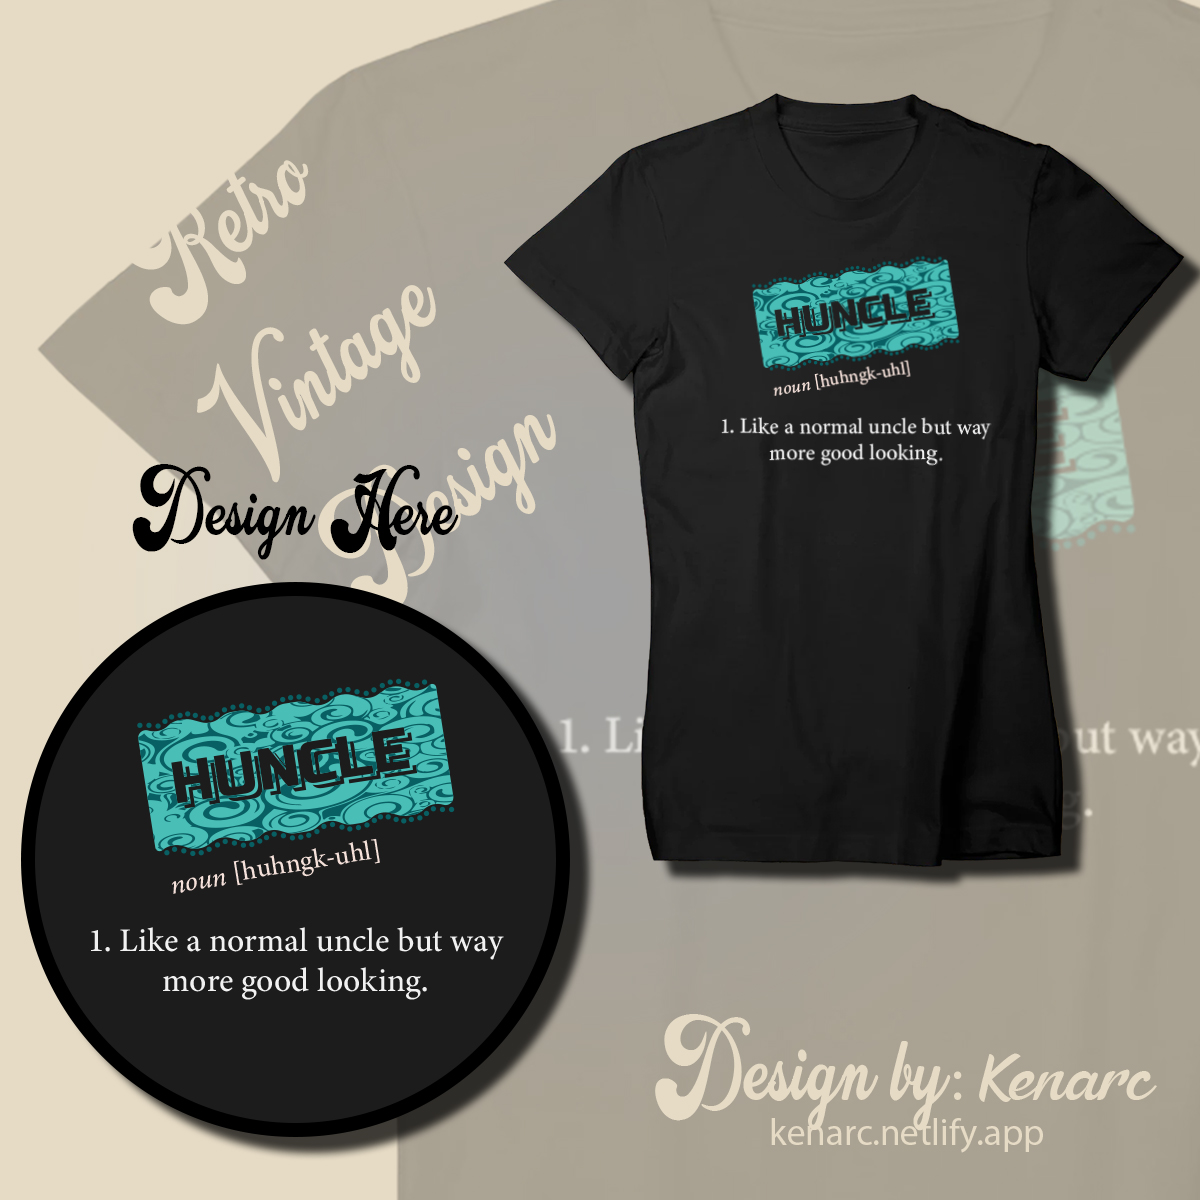
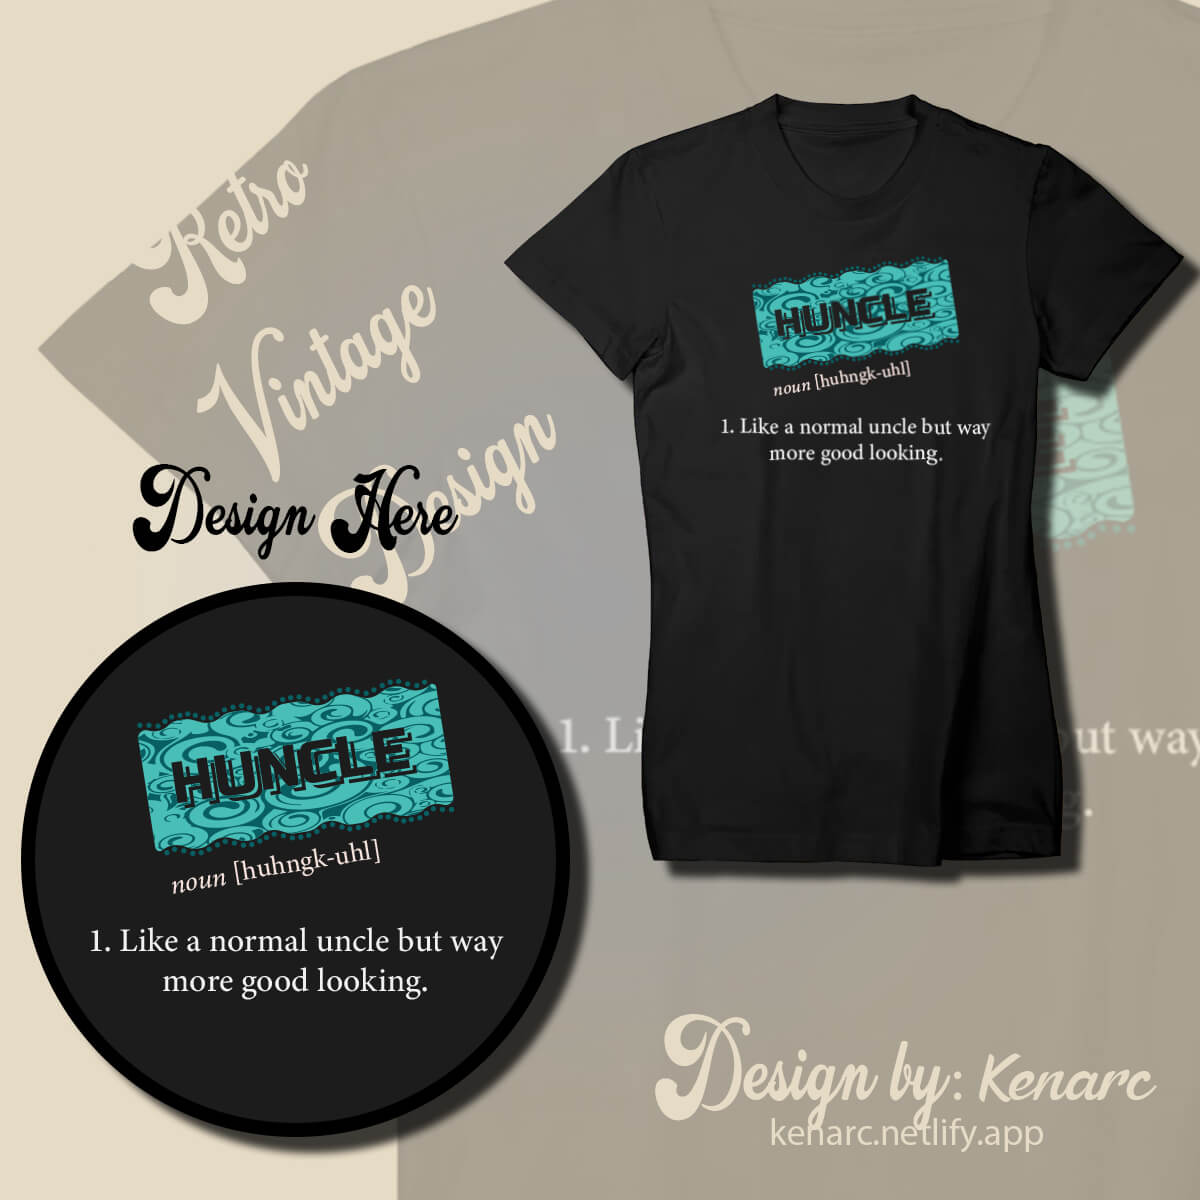
update
re-compress images

diff --git a/index.html b/index.html
@@ -141,49 +141,49 @@
                 </div>
                 <div class="card">
                     <div class="box">
-                        <a href="image/Logo Design/Mir 4/Logo Class.jpg" data-lightbox="mygallery"><img src="image/Logo Design/Mir 4/Logo Class.jpg" alt=""></a>
+                        <a href="image/Logo Design/Logo Class.jpg" data-lightbox="mygallery"><img src="image/Logo Design/Logo Class.jpg" alt=""></a>
                         <div class="text">Encanto New Main Logo</div>
                         <p>Our 3rd Clan Encanto was joined clan to SupremeDiablo1, SD2, SD3 & SD4 so theres no Encanto anymore it change name to SD4 but for our profile were still Encanto as a group we change our profile to this 7 logo I made for our memmories and sertified that we are still part to be Encanto even thou its SD4 now with different members we expanded alot for joined clan</p>
                     </div>
                 </div>
                 <div class="card">
                     <div class="box">
-                        <a href="image/Logo Design/Mir 4/Logo Class - Arbalist.jpg" data-lightbox="mygallery"><img src="image/Logo Design/Mir 4/Logo Class - Arbalist.jpg" alt=""></a>
+                        <a href="image/Logo Design/Logo Class - Arbalist.jpg" data-lightbox="mygallery"><img src="image/Logo Design/Logo Class - Arbalist.jpg" alt=""></a>
                         <div class="text">Encanto Class Logo - Arbalist</div>
                         <p>OOur 3rd Clan Encanto was joined clan to SupremeDiablo1, SD2, SD3 & SD4 so theres no Encanto anymore it change name to SD4 but for our profile were still Encanto as a group we change our profile to this 7 logo I made for our memmories and sertified that we are still part to be Encanto even thou its SD4 now with different members we expanded alot for joined clan</p>
                     </div>
                 </div>
                 <div class="card">
                     <div class="box">
-                        <a href="image/Logo Design/Mir 4/Logo Class - Darkist.jpg" data-lightbox="mygallery"><img src="image/Logo Design/Mir 4/Logo Class - Darkist.jpg" alt=""></a>
+                        <a href="image/Logo Design/Logo Class - Darkist.jpg" data-lightbox="mygallery"><img src="image/Logo Design/Logo Class - Darkist.jpg" alt=""></a>
                         <div class="text">Encanto Class Logo - Darkist</div>
                         <p>Our 3rd Clan Encanto was joined clan to SupremeDiablo1, SD2, SD3 & SD4 so theres no Encanto anymore it change name to SD4 but for our profile were still Encanto as a group we change our profile to this 7 logo I made for our memmories and sertified that we are still part to be Encanto even thou its SD4 now with different members we expanded alot for joined clan</p>
                     </div>
                 </div>
                 <div class="card">
                     <div class="box">
-                        <a href="image/Logo Design/Mir 4/Logo Class - Lancer.jpg" data-lightbox="mygallery"><img src="image/Logo Design/Mir 4/Logo Class - Lancer.jpg" alt=""></a>
+                        <a href="image/Logo Design/Logo Class - Lancer.jpg" data-lightbox="mygallery"><img src="image/Logo Design/Logo Class - Lancer.jpg" alt=""></a>
                         <div class="text">Encanto Class Logo - Lancer</div>
                         <p>Our 3rd Clan Encanto was joined clan to SupremeDiablo1, SD2, SD3 & SD4 so theres no Encanto anymore it change name to SD4 but for our profile were still Encanto as a group we change our profile to this 7 logo I made for our memmories and sertified that we are still part to be Encanto even thou its SD4 now with different members we expanded alot for joined clan</p>
                     </div>
                 </div>
                 <div class="card">
                     <div class="box">
-                        <a href="image/Logo Design/Mir 4/Logo Class - Sorcerer.jpg" data-lightbox="mygallery"><img src="image/Logo Design/Mir 4/Logo Class - Sorcerer.jpg" alt=""></a>
+                        <a href="image/Logo Design/Logo Class - Sorcerer.jpg" data-lightbox="mygallery"><img src="image/Logo Design/Logo Class - Sorcerer.jpg" alt=""></a>
                         <div class="text">Encanto Class Logo - Sorcerer</div>
                         <p>Our 3rd Clan Encanto was joined clan to SupremeDiablo1, SD2, SD3 & SD4 so theres no Encanto anymore it change name to SD4 but for our profile were still Encanto as a group we change our profile to this 7 logo I made for our memmories and sertified that we are still part to be Encanto even thou its SD4 now with different members we expanded alot for joined clan</p>
                     </div>
                 </div>
                 <div class="card">
                     <div class="box">
-                        <a href="image/Logo Design/Mir 4/Logo Class - Taoist.jpg" data-lightbox="mygallery"><img src="image/Logo Design/Mir 4/Logo Class - Taoist.jpg" alt=""></a>
+                        <a href="image/Logo Design/Logo Class - Taoist.jpg" data-lightbox="mygallery"><img src="image/Logo Design/Logo Class - Taoist.jpg" alt=""></a>
                         <div class="text">Encanto Class Logo - Taoist</div>
                         <p>Our 3rd Clan Encanto was joined clan to SupremeDiablo1, SD2, SD3 & SD4 so theres no Encanto anymore it change name to SD4 but for our profile were still Encanto as a group we change our profile to this 7 logo I made for our memmories and sertified that we are still part to be Encanto even thou its SD4 now with different members we expanded alot for joined clan</p>
                     </div>
                 </div>
                 <div class="card">
                     <div class="box">
-                        <a href="image/Logo Design/Mir 4/Logo Class - Warrior.jpg" data-lightbox="mygallery"><img src="image/Logo Design/Mir 4/Logo Class - Warrior.jpg" alt=""></a>
+                        <a href="image/Logo Design/Logo Class - Warrior.jpg" data-lightbox="mygallery"><img src="image/Logo Design/Logo Class - Warrior.jpg" alt=""></a>
                         <div class="text">Encanto Class Logo - Warrior</div>
                         <p>Our 3rd Clan Encanto was joined clan to SupremeDiablo1, SD2, SD3 & SD4 so theres no Encanto anymore it change name to SD4 but for our profile were still Encanto as a group we change our profile to this 7 logo I made for our memmories and sertified that we are still part to be Encanto even thou its SD4 now with different members we expanded alot for joined clan</p>
                     </div>
@@ -199,83 +199,6 @@
             <div class="carousel owl-carousel">
                 <div class="card">
                     <div class="box">
-                        <a href="image/TeePublic Design/Design 1 with watermark.png" data-lightbox="mygallery"><img src="image/TeePublic Design/Design 1 with watermark.png" alt=""></a>
-                        <div class="text">Kenarc - I Love you!</div>
-                        <p>Design 1 TeePublic: Kenarc, Follow me on TeePublic, Thank you for the support!</p>
-                    </div>
-                </div>
-                <div class="card">
-                    <div class="box">
-                        <a href="image/TeePublic Design/Design 2 with Watermark.png" data-lightbox="mygallery"><img src="image/TeePublic Design/Design 2 with Watermark.png" alt=""></a>
-                        <div class="text">Kenarc - Forever Yours!</div>
-                        <p>Design 2 TeePublic: Kenarc, Follow me on TeePublic, Thank you for the support!</p>
-                    </div>
-                </div>
-                <div class="card">
-                    <div class="box">
-                        <a href="image/TeePublic Design/Design 3 with Watermark.png" data-lightbox="mygallery"><img src="image/TeePublic Design/Design 3 with Watermark.png" alt=""></a>
-                        <div class="text">Kenarc - Happy 2023 Valentines Day!</div>
-                        <p>Design 3 TeePublic: Kenarc, Follow me on TeePublic, Thank you for the support!</p>
-                    </div>
-                </div>
-                <div class="card">
-                    <div class="box">
-                        <a href="image/TeePublic Design/Design 4 with Watermark.png" data-lightbox="mygallery"><img src="image/TeePublic Design/Design 4 with Watermark.png" alt=""></a>
-                        <div class="text">Kenarc - Forever Be My Always</div>
-                        <p>Design 4 TeePublic: Kenarc, Follow me on TeePublic, Thank you for the support!</p>
-                    </div>
-                </div>
-                <div class="card">
-                    <div class="box">
-                        <a href="image/TeePublic Design/Design 5 with Watermark.png" data-lightbox="mygallery"><img src="image/TeePublic Design/Design 5 with Watermark.png" alt=""></a>
-                        <div class="text">Kenarc - I will Always Love you!</div>
-                        <p>Design 5 TeePublic: Kenarc, Follow me on TeePublic, Thank you for the support!</p>
-                    </div>
-                </div>
-                <div class="card">
-                    <div class="box">
-                        <a href="image/TeePublic Design/Design 6 with Watermark.png" data-lightbox="mygallery"><img src="image/TeePublic Design/Design 6 with Watermark.png" alt=""></a>
-                        <div class="text">Kenarc - Forever Yours!</div>
-                        <p>Design 6 TeePublic: Kenarc, Follow me on TeePublic, Thank you for the support!</p>
-                    </div>
-                </div>
-                <div class="card">
-                    <div class="box">
-                        <a href="image/TeePublic Design/Design 7 with Watermark.png" data-lightbox="mygallery"><img src="image/TeePublic Design/Design 7 with Watermark.png" alt=""></a>
-                        <div class="text">Kenarc - I'm Forever Yours!</div>
-                        <p>Design 7 TeePublic: Kenarc, Follow me on TeePublic, Thank you for the support!</p>
-                    </div>
-                </div>
-                <div class="card">
-                    <div class="box">
-                        <a href="image/TeePublic Design/Piano 1 with Watermark.png" data-lightbox="mygallery"><img src="image/TeePublic Design/Piano 1 with Watermark.png" alt=""></a>
-                        <div class="text">Kenarc - Piano D1</div>
-                        <p>Design 8 TeePublic: Kenarc, Follow me on TeePublic, Thank you for the support!</p>
-                    </div>
-                </div>
-                <div class="card">
-                    <div class="box">
-                        <a href="image/TeePublic Design/Design 1.jpg" data-lightbox="mygallery"><img src="image/TeePublic Design/Design 1.jpg" alt=""></a>
-                        <div class="text">Kenarc - US of America 1956 T-Shirt</div>
-                        <p>Design 9 TeePublic: Kenarc, Follow me on TeePublic, Thank you for the support!</p>
-                    </div>
-                </div>
-                <div class="card">
-                    <div class="box">
-                        <a href="image/TeePublic Design/Design 2.jpg" data-lightbox="mygallery"><img src="image/TeePublic Design/Design 2.jpg" alt=""></a>
-                        <div class="text">Kenarc - USA California Mendocino Coast T-Shirt</div>
-                        <p>Design 10 TeePublic: Kenarc, Follow me on TeePublic, Thank you for the support!</p>
-                    </div>
-                </div>
-                <div class="card">
-                    <div class="box">
-                        <a href="image/TeePublic Design/Design 3.jpg" data-lightbox="mygallery"><img src="image/TeePublic Design/Design 3.jpg" alt=""></a>
-                        <div class="text">Kenarc - California Western United State T-Shirt</div>
-                        <p>Design 11 TeePublic: Kenarc, Follow me on TeePublic, Thank you for the support!</p>
-                    </div>
-                </div>
-                <div class="card">
-                    <div class="box">
                         <a href="image/TeePublic Design/Design 4.jpg" data-lightbox="mygallery"><img src="image/TeePublic Design/Design 4.jpg" alt=""></a>
                         <div class="text">Kenarc - Texas T-Shirt</div>
                         <p>Design 12 TeePublic: Kenarc, Follow me on TeePublic, Thank you for the support!</p>
@@ -283,37 +206,9 @@
                 </div>
                 <div class="card">
                     <div class="box">
-                        <a href="image/TeePublic Design/Design 5.jpg" data-lightbox="mygallery"><img src="image/TeePublic Design/Design 5.jpg" alt=""></a>
-                        <div class="text">Kenarc - Alaska T-Shirt</div>
-                        <p>Design 13 TeePublic: Kenarc, Follow me on TeePublic, Thank you for the support!</p>
-                    </div>
-                </div>
-                <div class="card">
-                    <div class="box">
                         <a href="image/TeePublic Design/Design 6.jpg" data-lightbox="mygallery"><img src="image/TeePublic Design/Design 6.jpg" alt=""></a>
                         <div class="text">Kenarc - New York City T-Shirt</div>
                         <p>Design 14 TeePublic: Kenarc, Follow me on TeePublic, Thank you for the support!</p>
-                    </div>
-                </div>
-                <div class="card">
-                    <div class="box">
-                        <a href="image/TeePublic Design/Design 7.jpg" data-lightbox="mygallery"><img src="image/TeePublic Design/Design 7.jpg" alt=""></a>
-                        <div class="text">Kenarc - California US T-Shirt</div>
-                        <p>Design 15 TeePublic: Kenarc, Follow me on TeePublic, Thank you for the support!</p>
-                    </div>
-                </div>
-                <div class="card">
-                    <div class="box">
-                        <a href="image/TeePublic Design/Design 8.jpg" data-lightbox="mygallery"><img src="image/TeePublic Design/Design 8.jpg" alt=""></a>
-                        <div class="text">Kenarc - Wisconsin T-Shirt</div>
-                        <p>Design 16 TeePublic: Kenarc, Follow me on TeePublic, Thank you for the support!</p>
-                    </div>
-                </div>
-                <div class="card">
-                    <div class="box">
-                        <a href="image/TeePublic Design/Design 9.jpg" data-lightbox="mygallery"><img src="image/TeePublic Design/Design 9.jpg" alt=""></a>
-                        <div class="text">Kenarc - aloha Hawaii T-Shirt</div>
-                        <p>Design 16 TeePublic: Kenarc, Follow me on TeePublic, Thank you for the support!</p>
                     </div>
                 </div>
                 <div class="card">
@@ -328,13 +223,6 @@
                         <a href="image/TeePublic Design/Design 11.jpg" data-lightbox="mygallery"><img src="image/TeePublic Design/Design 11.jpg" alt=""></a>
                         <div class="text">Kenarc - Explore The World T-Shirt</div>
                         <p>Design 18 TeePublic: Kenarc, Follow me on TeePublic, Thank you for the support!</p>
-                    </div>
-                </div>
-                <div class="card">
-                    <div class="box">
-                        <a href="image/TeePublic Design/Design 12.jpg" data-lightbox="mygallery"><img src="image/TeePublic Design/Design 12.jpg" alt=""></a>
-                        <div class="text">Kenarc - Making America Great T-Shirt</div>
-                        <p>Design 19 TeePublic: Kenarc, Follow me on TeePublic, Thank you for the support!</p>
                     </div>
                 </div>
                 <div class="card">
@@ -370,78 +258,6 @@
                         <a href="image/TeePublic Design/Design x4.jpg" data-lightbox="mygallery"><img src="image/TeePublic Design/Design x4.jpg" alt=""></a>
                         <div class="text">Kenarc - Funcle 3 T-Shirt</div>
                         <p>Design 24 TeePublic: Kenarc, Follow me on TeePublic, Thank you for the support!</p>
-                    </div>
-                </div>
-                <div class="card">
-                    <div class="box">
-                        <a href="image/TeePublic Design/Design x5.jpg" data-lightbox="mygallery"><img src="image/TeePublic Design/Design x5.jpg" alt=""></a>
-                        <div class="text">Kenarc - Huncle 2 T-Shirt</div>
-                        <p>Design 25 TeePublic: Kenarc, Follow me on TeePublic, Thank you for the support!</p>
-                    </div>
-                </div>
-                <div class="card">
-                    <div class="box">
-                        <a href="image/TeePublic Design//Design x6.jpg" data-lightbox="mygallery"><img src="image/TeePublic Design/Design x6.jpg" alt=""></a>
-                        <div class="text">Kenarc - Huncle 3 T-Shirt</div>
-                        <p>Design 26 TeePublic: Kenarc, Follow me on TeePublic, Thank you for the support!</p>
-                    </div>
-                </div>
-            </div>
-        </div>
-    </section>
-
-    <!-- Tshirt section start -->
-    <section class="shirt" id="shirt">
-        <div class="max-width">
-            <h2 class="title">T-shirt Design</h2>
-            <div class="carousel owl-carousel">
-                <div class="card">
-                    <div class="box">
-                        <a href="image/T-shirt Design/Bakz Jersey.png" data-lightbox="mygallery"><img src="image/T-shirt Design/Bakz Jersey.png" alt=""></a>
-                        <div class="text">VolleyBall</div>
-                        <p>My Older Brother Requested to make there own Uniform Design</p>
-                    </div>
-                </div>
-                <div class="card">
-                        <div class="box">
-                            <a href="image/T-shirt Design/Design 3.png" data-lightbox="mygallery"><img src="image/T-shirt Design/Design 3.png" alt=""></a>
-                            <div class="text">VolleyBall</div>
-                            <p>My Older Brother Requested to make there own Long Sleeve Jersey Uniform Design</p>
-                        </div>
-                    </div>
-                    <div class="card">
-                            <div class="box">
-                                <a href="image/T-shirt Design/Design 4.png" data-lightbox="mygallery"><img src="image/T-shirt Design/Design 4.png" alt=""></a>
-                                <div class="text">VolleyBall</div>
-                                <p>My Older Brother Requested to make there own Long Sleeve Jersey Uniform Design</p>
-                            </div>
-                        </div>
-                        <div class="card">
-                            <div class="box">
-                                <a href="image/T-shirt Design/Design 8.png" data-lightbox="mygallery"><img src="image/T-shirt Design/Design 8.png" alt=""></a>
-                                <div class="text">VolleyBall</div>
-                                <p>My Older Brother Requested to make there own Long Sleeve Jersey Uniform Design</p>
-                            </div>
-                        </div>
-                <div class="card">
-                    <div class="box">
-                        <a href="image/T-shirt Design/Design 9.png" data-lightbox="mygallery"><img src="image/T-shirt Design/Design 9.png" alt=""></a>
-                        <div class="text">VolleyBall</div>
-                        <p>My Older Brother Requested to make there own Long Sleeve Jersey Uniform Design</p>
-                    </div>
-                </div>
-                <div class="card">
-                    <div class="box">
-                        <a href="Image/T-shirt Design/Black Jocks.jpg" data-lightbox="mygallery"><img src="Image/T-shirt Design/Black Jocks.jpg" alt=""></a>
-                        <div class="text">Cousin Volleyball uniform requested</div>
-                        <p>January 2023</p>
-                    </div>
-                </div>
-                <div class="card">
-                    <div class="box">
-                        <a href="Image/T-shirt Design/White Jocks.jpg" data-lightbox="mygallery"><img src="Image/T-shirt Design/White Jocks.jpg" alt=""></a>
-                        <div class="text">Cousin Volleyball uniform requested</div>
-                        <p>January 2023 for reciever uniform</p>
                     </div>
                 </div>
             </div>

diff --git a/style.css b/style.css
@@ -224,15 +224,14 @@ section .title::after {
     background: none;
 }
 /* services section styling */
-.services, .teams, .logo,
-.shirt, .pixel, .poster, .slogo,
-.tdesign, .wallpaper, .mockup{
+.services, .teams, .pixel,
+.poster, .slogo, .tdesign,
+.wallpaper, .mockup{
     color: #fff;
     /*background: #111;*/
 }
 .services .title::before,
 .teams .title::before,
-.shirt .title::before,
 .pixel .title::before,
 .poster .title::before,
 .slogo .title::before,
@@ -242,7 +241,6 @@ section .title::after {
 }
 .services .title::after,
 .teams .title::after,
-.shirt .title::after,
 .pixel .title::after,
 .poster .title::after,
 .slogo .title::after,
@@ -371,79 +369,6 @@ section .title::after {
 }*/
 
 .tdesign .carousel .card:hover img {
-    border-color: #fff;
-}
-
-.owl-dots {
-    text-align: center;
-    margin-top: 20px;
-}
-
-.owl-dot {
-    height: 13px;
-    width: 13px;
-    margin: 0 5px;
-    outline: none !important;
-    border-radius: 50%;
-    border: 2px solid crimson !important;
-    transition: all 0.3s ease;
-}
-
-.owl-dot.active {
-    width: 35px;
-    border-radius: 14px;
-}
-
-.owl-dot.active,
-.owl-dot:hover {
-    background: crimson !important;
-}
-
-/* shirt Design */
-.shirt .title::after {
-    content: "Sample";
-}
-
-.shirt .carousel .card {
-    background: #222;
-    border-radius: 6px;
-    padding: 25px 35px;
-    text-align: center;
-    transition: all 0.3s ease;
-}
-
-.shirt .carousel .card:hover {
-    background: crimson;
-}
-
-.shirt .carousel .card .box {
-    display: flex;
-    flex-direction: column;
-    align-items: center;
-    justify-content: center;
-    transition: all 0.3s ease;
-}
-
-.shirt .carousel .card:hover .box {
-    transform: scale(1.05);
-}
-
-.shirt .carousel .card .text {
-    font-size: 25px;
-    font-weight: 500;
-    margin: 10px 0 7px 0;
-}
-
-/*.shirt .carousel .card img {
-    height: 150px;
-    width: 150px;
-    object-fit: cover;
-    border-radius: 50%;
-    border: 5px solid crimson;
-    transition: all 0.3s ease;
-}*/
-
-.shirt .carousel .card:hover img {
     border-color: #fff;
 }
 
